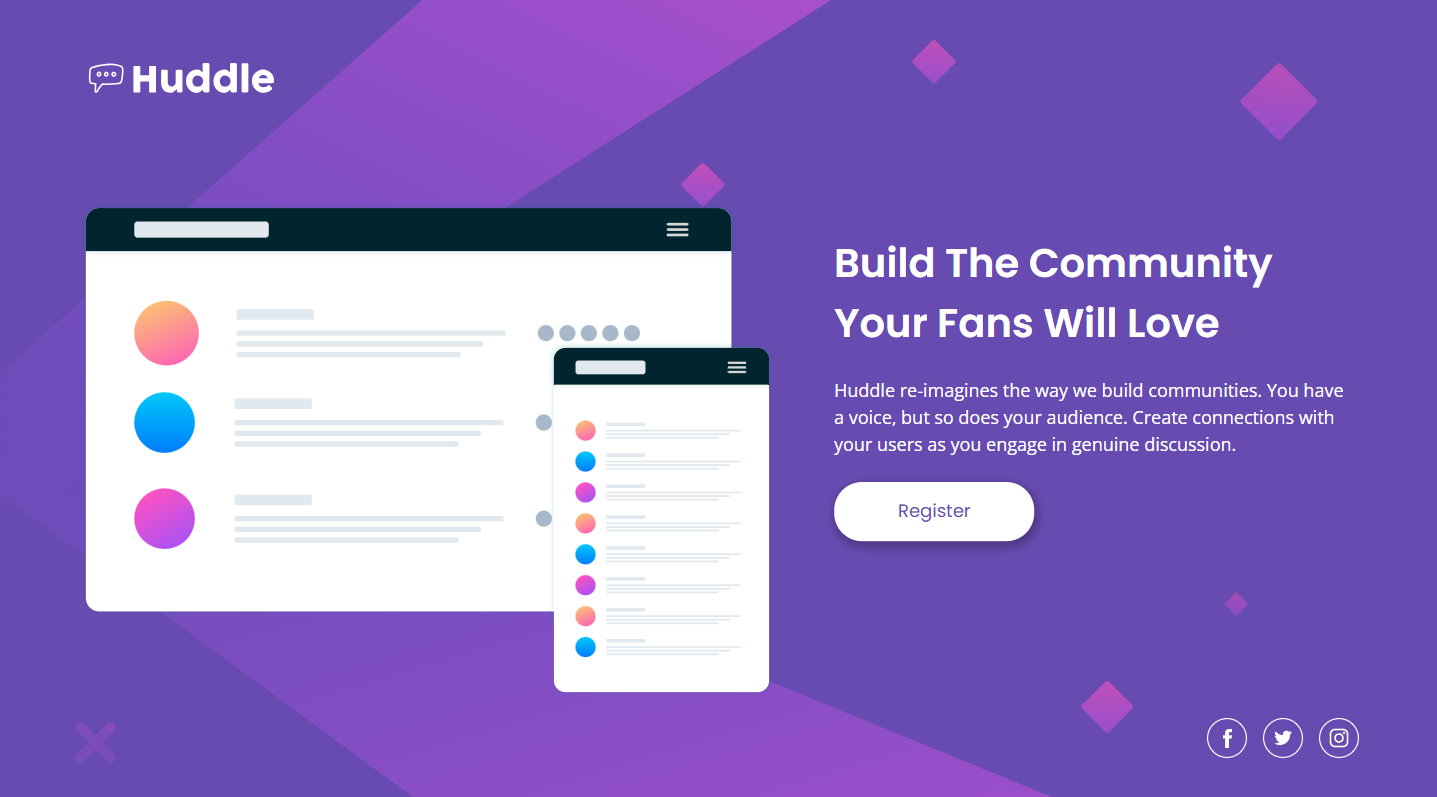
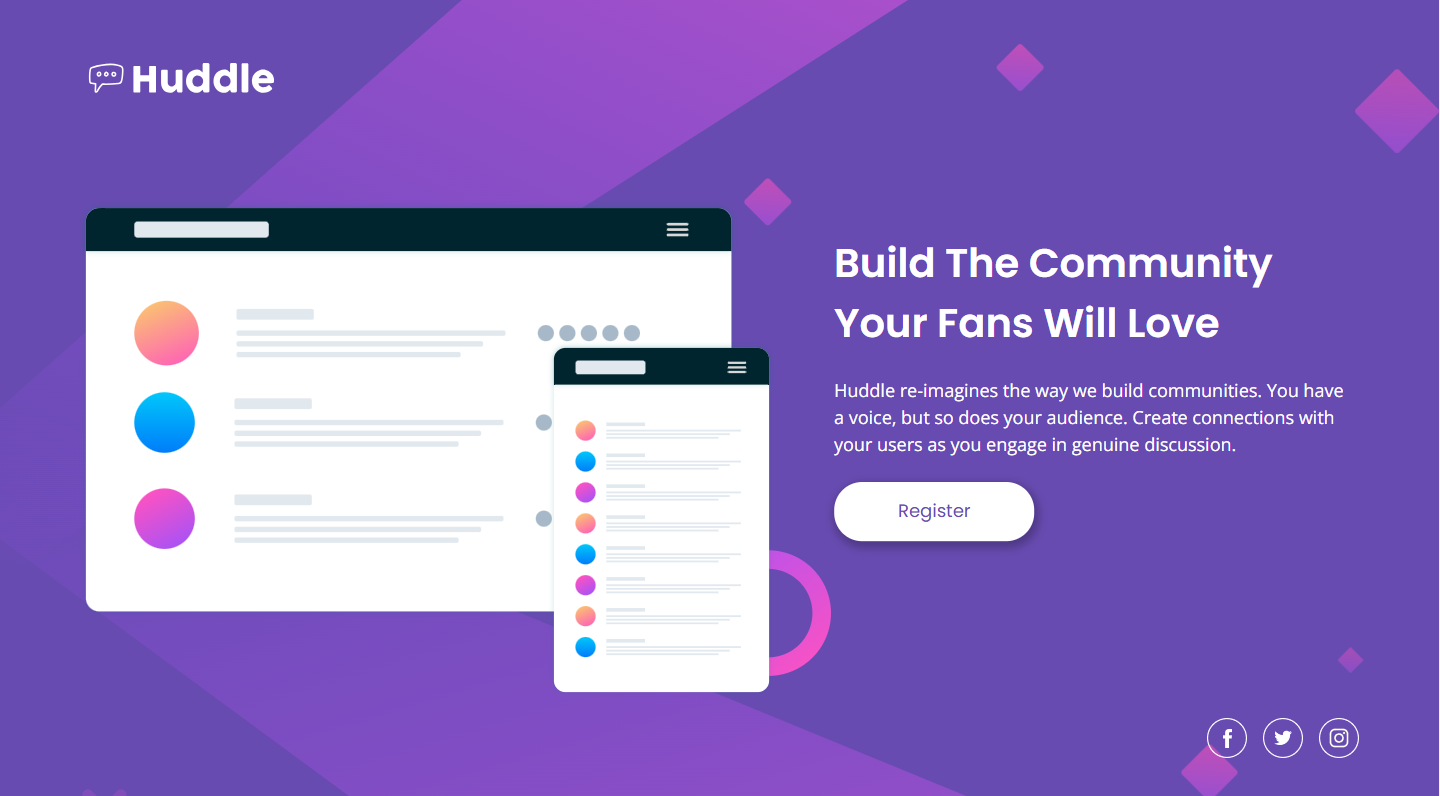
Adjustments in background SVG with background-size and links added in README.md

diff --git a/huddle-landing-page-with-single-introductory-section/styles/style.css b/huddle-landing-page-with-single-introductory-section/styles/style.css
@@ -12,6 +12,7 @@ img {
 body {
   background: #684bb1 url('../images/bg-desktop.svg') no-repeat;
   padding: 55px 85px 0 80px;
+  background-size: cover;
 }
 
 .header {

diff --git a/huddle-landing-page-with-single-introductory-section/README.md b/huddle-landing-page-with-single-introductory-section/README.md
@@ -24,8 +24,8 @@ This is a solution to the [Huddle landing page with single introductory section 
 
 ### Links
 
-- Solution URL:
-- Live Site URL:
+- Solution URL: https://github.com/RogeanCosta/frontendmentor-challenges/tree/main/huddle-landing-page-with-single-introductory-section
+- Live Site URL: https://rogeancosta.github.io/frontendmentor-challenges/huddle-landing-page-with-single-introductory-section/
 
 ## My process
 
